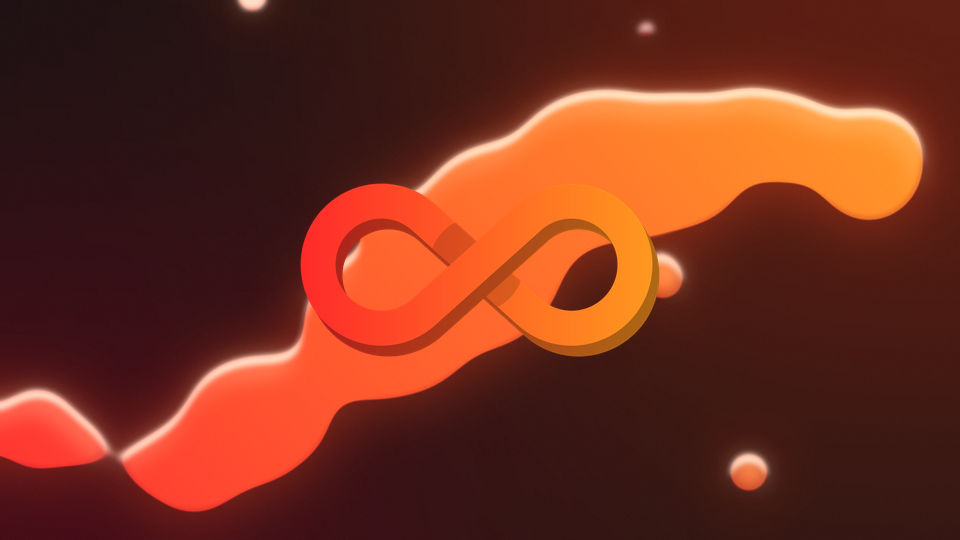
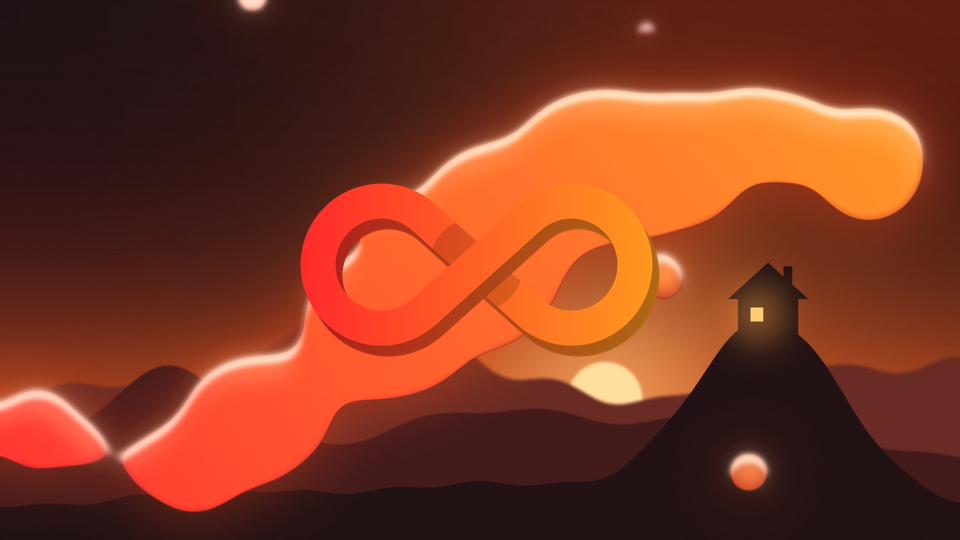
Paint a sunset with a house on a mountain behind the LiquidIA drops

Changed region(s): [[0.3125, 0.3556, 1.0, 0.8593], [0.0, 0.4148, 0.3438, 0.7704], [0.0, 0.8889, 0.375, 1.0]]

diff --git a/themes/liquidia/make-art.py b/themes/liquidia/make-art.py
@@ -2,11 +2,13 @@
 """Gera o fundo, o emblema da barra, a imagem de unlock e a prévia do tema LiquidIA.
 
 O fundo é "vidro líquido": gotas fundidas (metaballs: blur + limiar) num
-degradê vermelho -> laranja, com brilho especular na borda de cima. O ∞ é o infinito.png do DoxIA repintado no
+degradê vermelho -> laranja, com brilho especular na borda de cima, na frente
+de um entardecer com uma casa no alto de uma montanha. O ∞ é o infinito.png do DoxIA repintado no
 mesmo degradê.
 
 Rode de novo para regenerar: python3 make-art.py
 """
+import math
 import random
 from pathlib import Path
 
@@ -62,12 +64,86 @@ def metaballs(size, blobs, blur, threshold):
     return m.point(lambda v: 0 if v < lo else 255 if v > hi else int((v - lo) * 255 / (hi - lo)))
 
 
+def ridge(xs, base, waves, peak=None):
+    """Linha de cume: base + ondas senoidais, com um pico gaussiano opcional."""
+    pts = []
+    for x in xs:
+        y = base + sum(a * math.sin(f * x / W + ph) for (a, f, ph) in waves)
+        if peak:
+            px, ph_, pw = peak
+            y -= ph_ * math.exp(-((x - px) / pw) ** 2)
+        pts.append((x, y))
+    return pts
+
+
+def landscape(size):
+    """Entardecer: céu quente, sol baixo, três serras e uma casa no pico."""
+    w, h = size
+    horizon = int(h * 0.80)
+    layer = Image.new("RGBA", size, (0, 0, 0, 0))
+
+    # céu: escuro em cima, brasa no horizonte
+    sky = Image.new("RGBA", (1, 256))
+    for y in range(256):
+        t = (y / 255) ** 1.8
+        sky.putpixel((0, y), lerp(BG, (170, 58, 22), t) + (int(255 * min(1, t * 1.4)),))
+    layer.alpha_composite(sky.resize((w, horizon), Image.BILINEAR))
+
+    # sol baixo, meio escondido pelas serras
+    sx, sy = int(w * 0.63), int(h * 0.74)
+    layer.alpha_composite(radial(size, (sx, sy), 900, (255, 120, 40), 0.55))
+    layer.alpha_composite(radial(size, (sx, sy), 380, (255, 190, 110), 0.7))
+    sun = Image.new("L", size, 0)
+    ImageDraw.Draw(sun).ellipse([sx - 150, sy - 150, sx + 150, sy + 150], fill=255)
+    disc = Image.new("RGBA", size, (255, 214, 150, 0))
+    disc.putalpha(sun.filter(ImageFilter.GaussianBlur(6)))
+    layer.alpha_composite(disc)
+
+    xs = list(range(-40, w + 60, 20))
+    house_x = w * 0.80
+    serras = [
+        # (base, ondas, pico, cor, blur): do mais longe para o mais perto
+        (h * 0.70, [(70, 11, 1.0), (40, 27, 2.1), (18, 61, 0.7)], (w * 0.40, 420, 300), (96, 34, 26), 6),
+        (h * 0.80, [(80, 7, 0.4), (35, 19, 1.7), (14, 47, 2.9)], (w * 0.18, 300, 360), (58, 18, 18), 3),
+        (h * 0.92, [(40, 5, 2.4), (16, 21, 0.3), (8, 70, 1.3)], (house_x, 700, 430), (26, 9, 11), 1.5),
+    ]
+    for base, waves, peak, color, blur in serras:
+        pts = ridge(xs, base, waves, peak)
+        m = Image.new("L", size, 0)
+        ImageDraw.Draw(m).polygon(pts + [(w + 60, h + 10), (-40, h + 10)], fill=255)
+        hill = Image.new("RGBA", size, color + (0,))
+        hill.putalpha(m.filter(ImageFilter.GaussianBlur(blur)))
+        layer.alpha_composite(hill)
+        top = pts
+
+    # casa no pico da serra da frente, em silhueta, com a janela acesa
+    hy = min(y for (x, y) in top if abs(x - house_x) < 60) + 55
+    hx = int(house_x)
+    sil = Image.new("L", size, 0)
+    d = ImageDraw.Draw(sil)
+    d.rectangle([hx - 120, hy - 150, hx + 120, hy + 80], fill=255)                 # corpo, enterrado no cume
+    d.polygon([(hx - 160, hy - 140), (hx, hy - 285), (hx + 160, hy - 140)], fill=255)  # telhado
+    d.rectangle([hx + 62, hy - 270, hx + 96, hy - 190], fill=255)                  # chaminé
+    house = Image.new("RGBA", size, (26, 9, 11, 0))
+    house.putalpha(sil.filter(ImageFilter.GaussianBlur(1.2)))
+    layer.alpha_composite(house)
+    win = [hx - 70, hy - 105, hx - 20, hy - 50]
+    layer.alpha_composite(radial(size, ((win[0] + win[2]) // 2, (win[1] + win[3]) // 2), 110, (255, 160, 60), 0.5))
+    wm = Image.new("L", size, 0)
+    ImageDraw.Draw(wm).rectangle(win, fill=255)
+    lit = Image.new("RGBA", size, (255, 196, 110, 0))
+    lit.putalpha(wm.filter(ImageFilter.GaussianBlur(1)))
+    layer.alpha_composite(lit)
+    return layer
+
+
 def wallpaper():
     size = (W, H)
     img = Image.new("RGBA", size, BG + (255,))
     # brasa ao fundo, bem difusa
     img.alpha_composite(radial(size, (int(W * 0.78), int(H * 0.25)), 1300, (140, 30, 10), 0.55))
     img.alpha_composite(radial(size, (int(W * 0.15), int(H * 0.9)), 1100, (110, 0, 20), 0.5))
+    img.alpha_composite(landscape(size))
 
     # fio de gotas atravessando a tela em diagonal
     rnd = random.Random(7)
@@ -75,7 +151,7 @@ def wallpaper():
     for i in range(26):
         t = i / 25
         x = W * (0.05 + 0.9 * t) + rnd.uniform(-120, 120)
-        y = H * (0.82 - 0.62 * t) + 260 * __import__("math").sin(t * 7.0) + rnd.uniform(-80, 80)
+        y = H * (0.82 - 0.62 * t) + 260 * math.sin(t * 7.0) + rnd.uniform(-80, 80)
         r = rnd.uniform(90, 300) * (1.25 - abs(t - 0.5))
         blobs.append((x, y, r * rnd.uniform(0.9, 1.3), r))
     # gotas soltas
